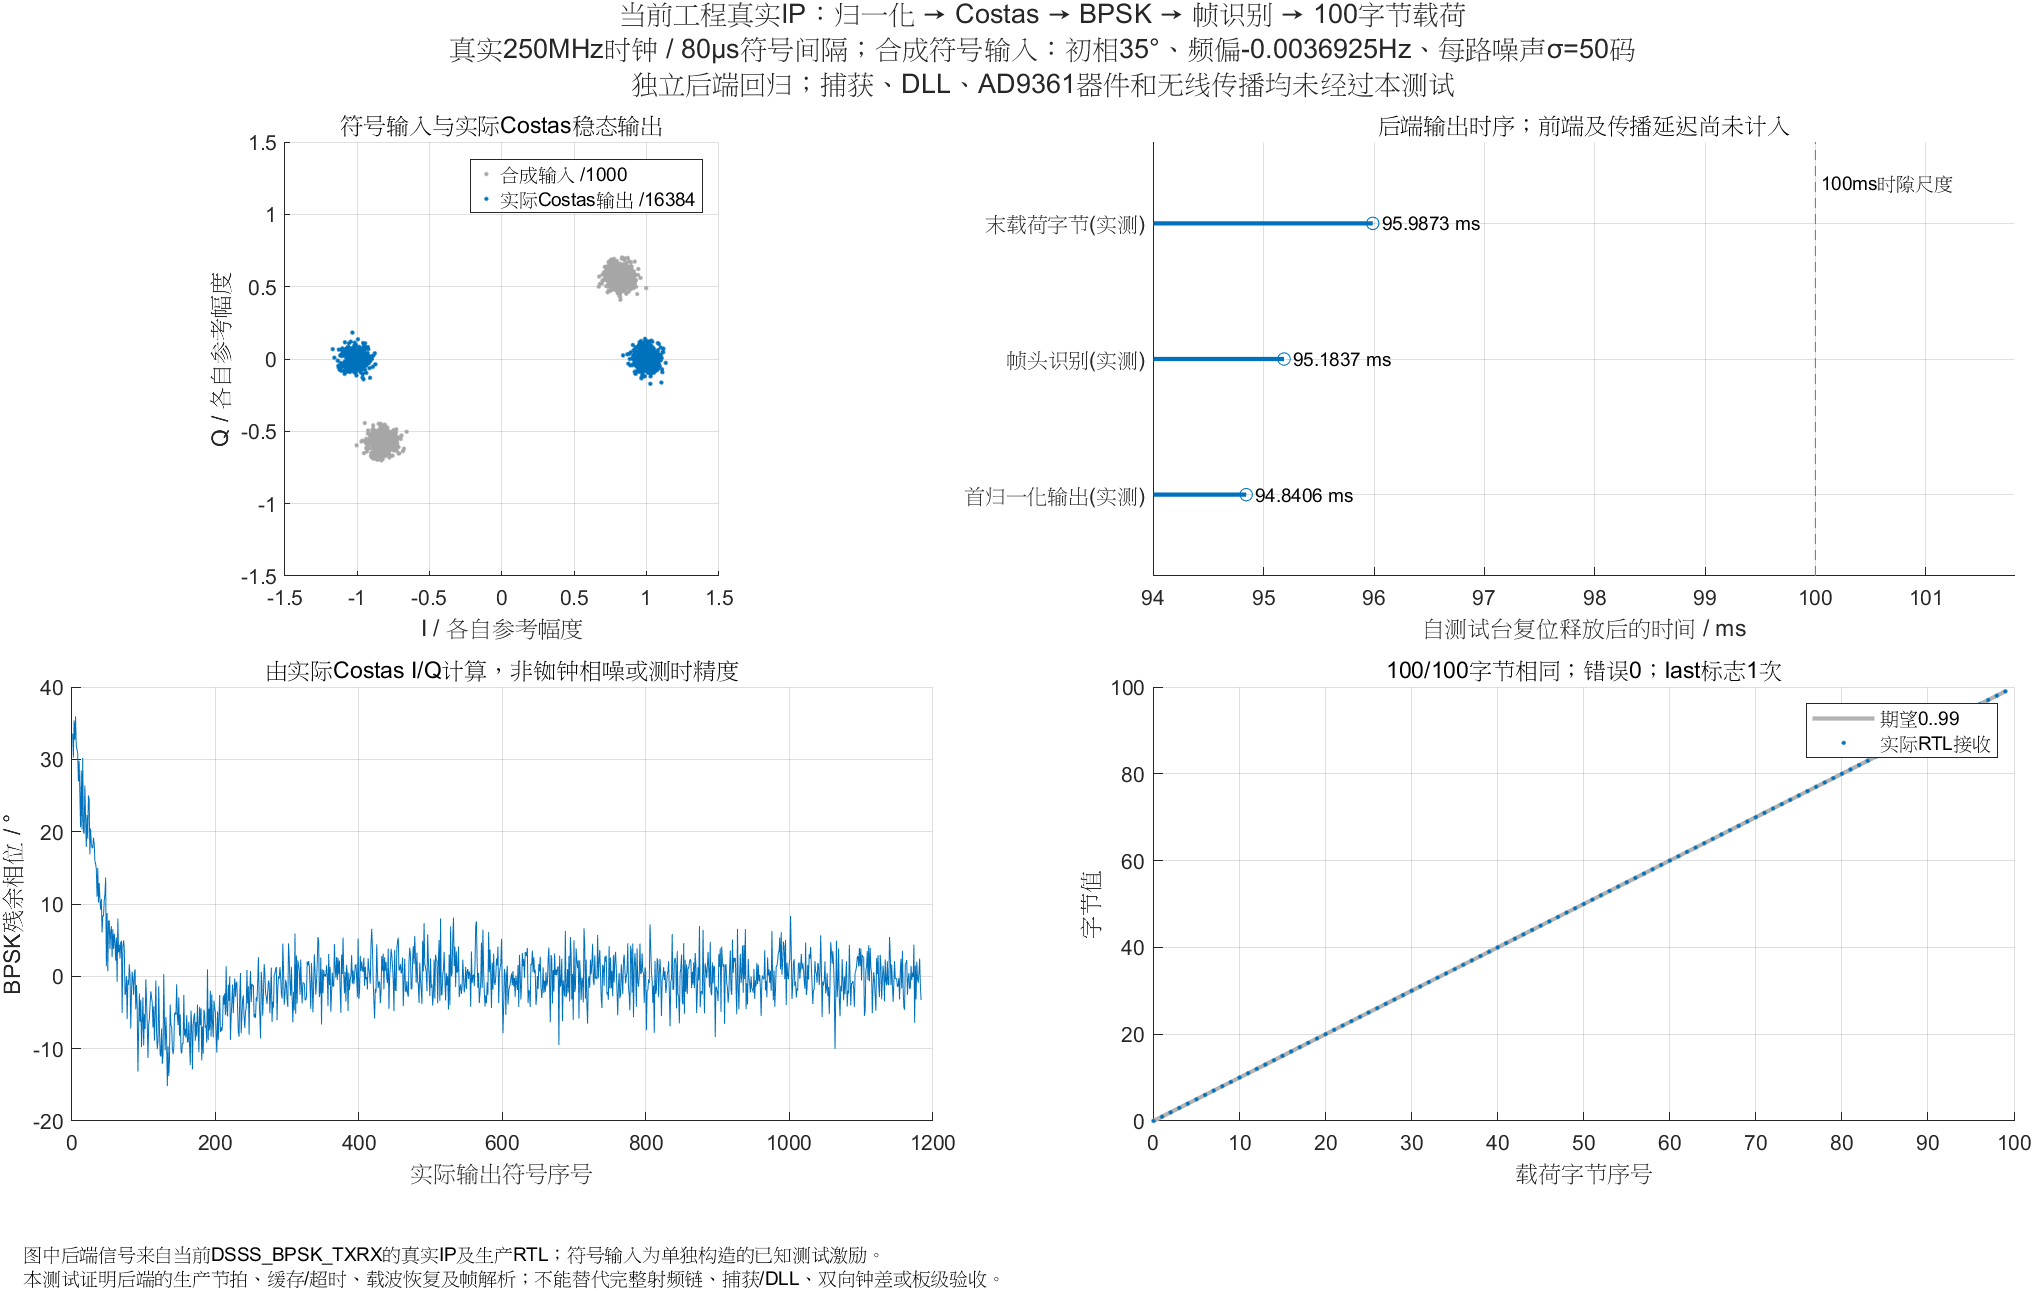
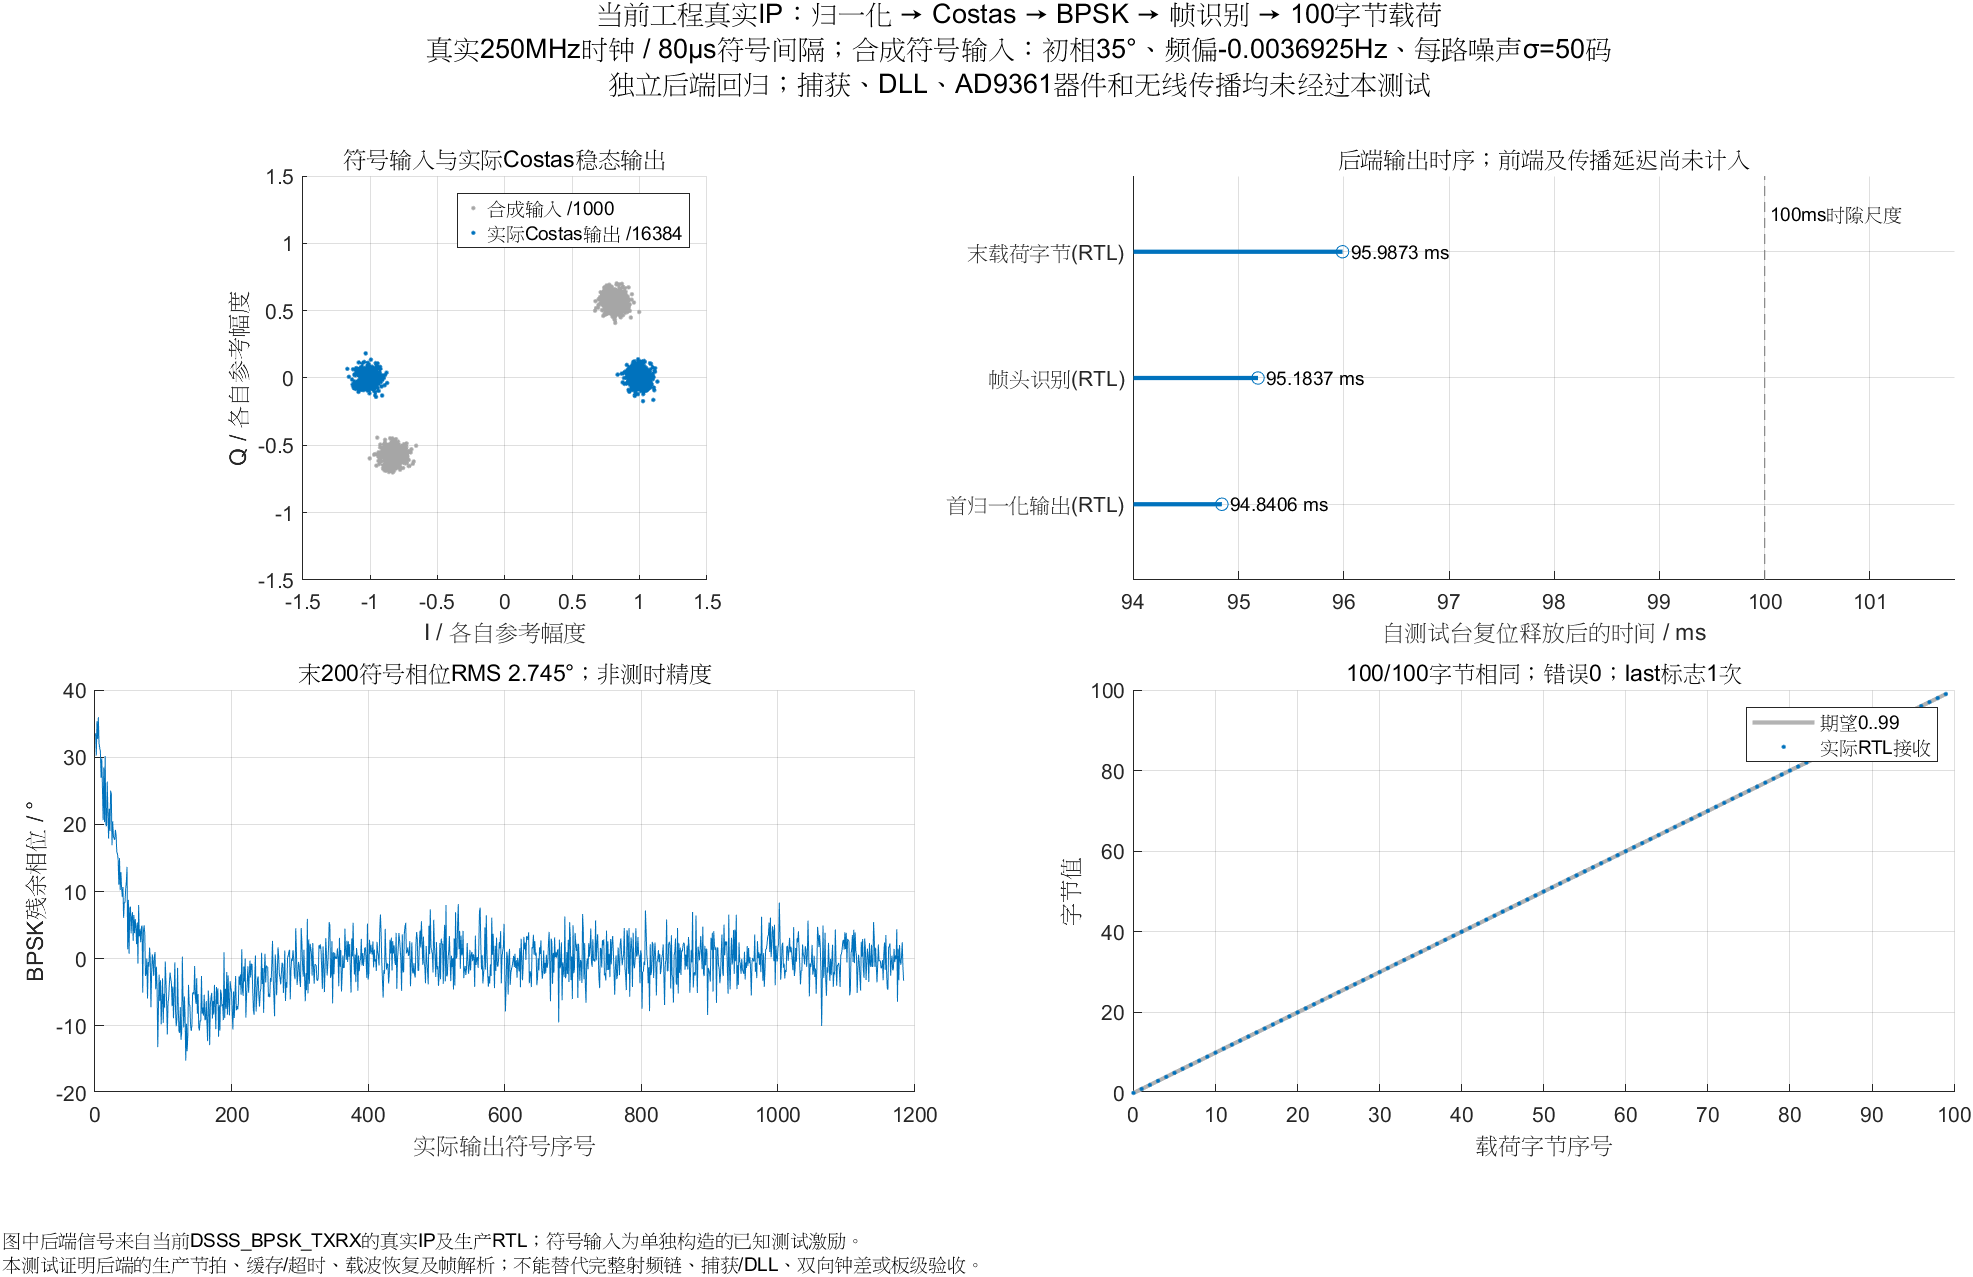
Update DSSS simulation gallery 2026-10-16

diff --git a/catalog.html b/catalog.html
@@ -703,7 +703,7 @@ img{width:100%;height:240px;object-fit:contain;background:#f8fafc}h3{font-size:1
 <li><a href="modules.html#script_official_rtl">真实RTL与官方AD9361文件交换验证</a>：登记的新图对应模块；场景及信号说明见图注</li>
 </ul><details class="panel-note"><summary>这张图从哪里取数 / 如何阅读</summary><p>已按登记信息关联模块；具体场景及信号说明：实际dsss_tx_250.v/PN1000/当前DSSS_BPSK_TXRX FIR IP/12位量化/XPM时钟桥导出10000点、1253码片逐点检查，20ns节拍无误差无削顶；实际输入官方TX/RX，1.055GHz、5km/c、RF包络200MSPS显式线性分数延时，199.98us。假设80ns回波/-10dB/60度、公共平坦Rician K=10dB/Doppler≤1Hz、示例CFO−0.0036925Hz/初相35度、固定外加噪声每分量σ=1e-6；通道幅度1e-4未标定，两板开关各0.7dB，用户FIR旁路/固定HB，非实测链路预算。官方RX到达前/后复数RMS32.612/187.447码，ADC削顶0。四个子图来自实际导出CSV；短记录不能覆盖慢衰落统计、完整接收RTL/载荷/PPS或测时精度；非实时HDL协同仿真。</p>
 </details></article>
-<article data-era="current" data-modules="script_backend_current_ip"><span class="badge">当前工程真实IP/RTL后端整帧：100字节逐一比较通过；非完整无线链路</span><h3>41_当前工程真实IP_归一化Costas_整帧后端.png</h3><a href="08_MATLAB_Simulink_RTL%E5%AF%B9%E7%85%A7/41_%E5%BD%93%E5%89%8D%E5%B7%A5%E7%A8%8B%E7%9C%9F%E5%AE%9EIP_%E5%BD%92%E4%B8%80%E5%8C%96Costas_%E6%95%B4%E5%B8%A7%E5%90%8E%E7%AB%AF.png" target="_blank"><img loading="lazy" src="08_MATLAB_Simulink_RTL%E5%AF%B9%E7%85%A7/41_%E5%BD%93%E5%89%8D%E5%B7%A5%E7%A8%8B%E7%9C%9F%E5%AE%9EIP_%E5%BD%92%E4%B8%80%E5%8C%96Costas_%E6%95%B4%E5%B8%A7%E5%90%8E%E7%AB%AF.png" alt="41_当前工程真实IP_归一化Costas_整帧后端.png"></a><p>实际rx_norm、Costas、BPSK、帧识别及字节解析，使用当前DSSS_BPSK_TXRX的17个真实IP；250MHz/80µs生产符号间隔，1184个输入及输出，100字节0..99全部相同、last一次。输入为独立合成BPSK符号：幅度1000、初相35度、示例CFO−0.0036925Hz、每路噪声σ50码、seed20261016，绕过RF、FFT捕获及DLL。图中实际输出时序、Costas残余相位和字节对照不代表整个无线链路或测时精度。</p><p><strong>对应模块 / 图源：</strong></p><ul class="module-links">
+<article data-era="current" data-modules="script_backend_current_ip"><span class="badge">当前工程真实IP/RTL后端整帧：100字节逐一比较通过；非完整无线链路</span><h3>41_当前工程真实IP_归一化Costas_整帧后端.png</h3><a href="08_MATLAB_Simulink_RTL%E5%AF%B9%E7%85%A7/41_%E5%BD%93%E5%89%8D%E5%B7%A5%E7%A8%8B%E7%9C%9F%E5%AE%9EIP_%E5%BD%92%E4%B8%80%E5%8C%96Costas_%E6%95%B4%E5%B8%A7%E5%90%8E%E7%AB%AF.png" target="_blank"><img loading="lazy" src="08_MATLAB_Simulink_RTL%E5%AF%B9%E7%85%A7/41_%E5%BD%93%E5%89%8D%E5%B7%A5%E7%A8%8B%E7%9C%9F%E5%AE%9EIP_%E5%BD%92%E4%B8%80%E5%8C%96Costas_%E6%95%B4%E5%B8%A7%E5%90%8E%E7%AB%AF.png" alt="41_当前工程真实IP_归一化Costas_整帧后端.png"></a><p>实际rx_norm、Costas、BPSK、帧识别及字节解析，使用当前DSSS_BPSK_TXRX的17个真实IP；250MHz/80µs生产符号间隔，1184个输入及输出，100字节0..99全部相同、last一次。输入为独立合成BPSK符号：幅度1000、初相35度、示例CFO−0.0036925Hz、每路噪声σ50码、seed20261016，绕过RF、FFT捕获及DLL。图中实际输出时序、Costas残余相位和字节对照不代表整个无线链路或测时精度。 实际末载荷时间95.987308ms仅属该后端测试台；末200符号输出相位RMS2.745°，不是铷钟相噪或测时精度。图已预留标题和说明空间，时序标签明确为RTL仿真。</p><p><strong>对应模块 / 图源：</strong></p><ul class="module-links">
 <li><a href="modules.html#script_backend_current_ip">当前工程真实IP：生产节拍后端整帧</a>：登记的新图对应模块；场景及信号说明见图注</li>
 </ul><details class="panel-note"><summary>这张图从哪里取数 / 如何阅读</summary><p>当前工程17个真实IP与实际生产后端RTL输出；输入为独立合成BPSK符号，保持80µs生产间隔；不是官方RF输出或Simulink内部Scope。</p>
 <p><strong>左上 · 输入/Costas星座</strong><br>合成输入与实际COSTAS事件<br>两者使用各自参考幅度；排除前280符号显示稳态，不据此验收捕获/DLL。</p>
